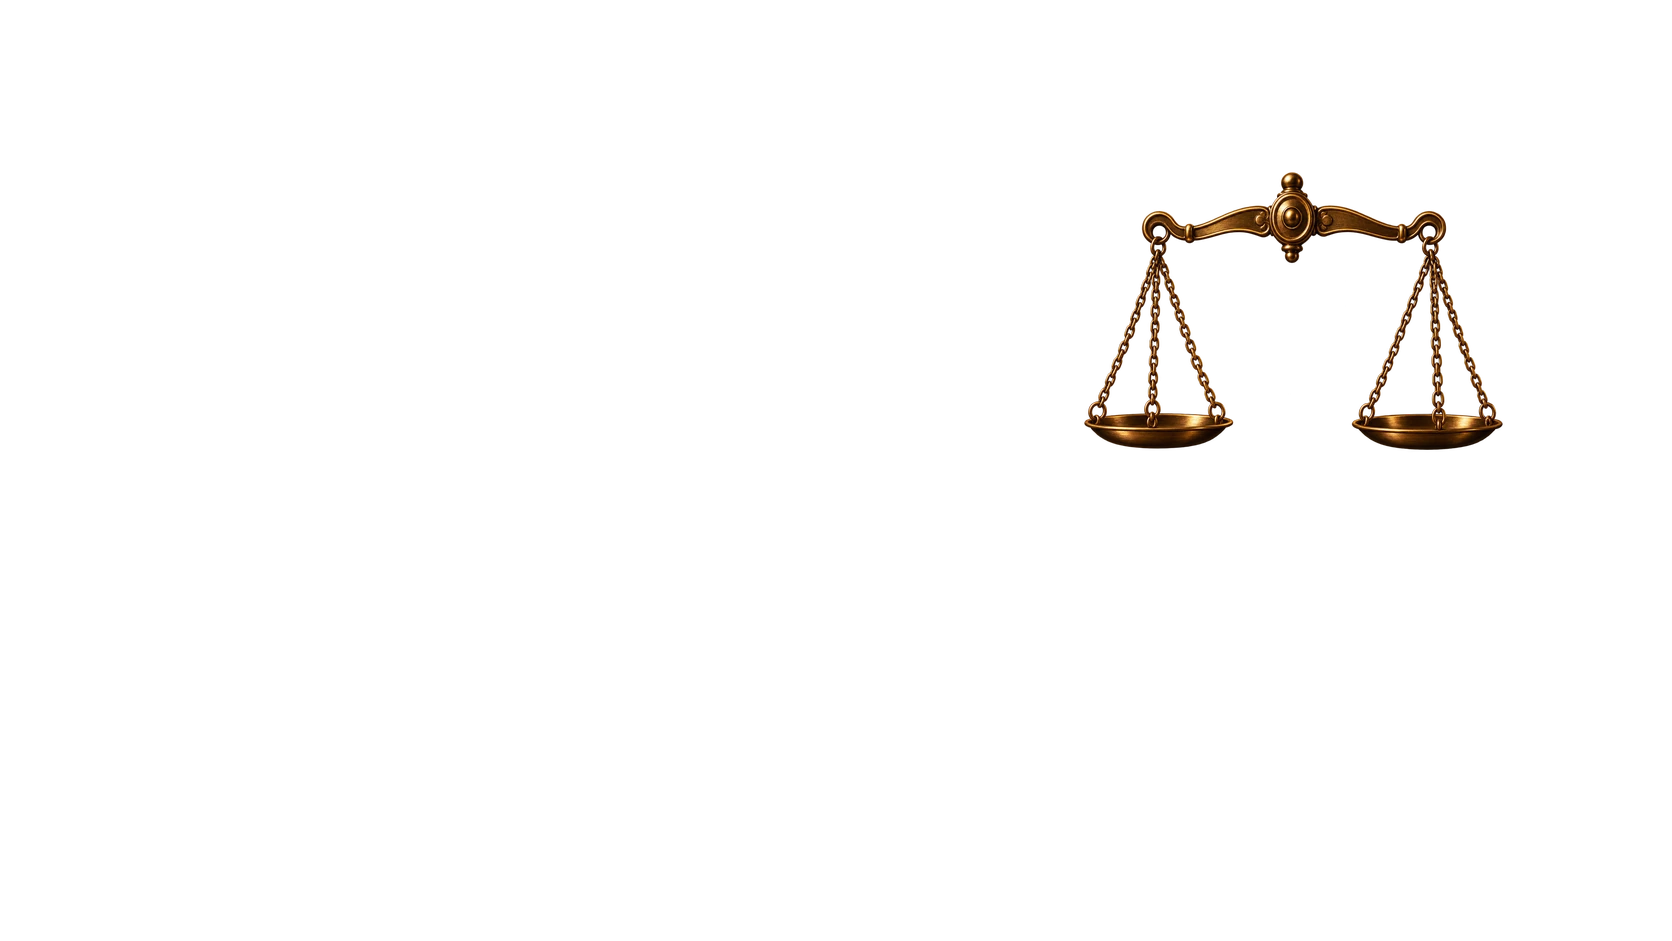
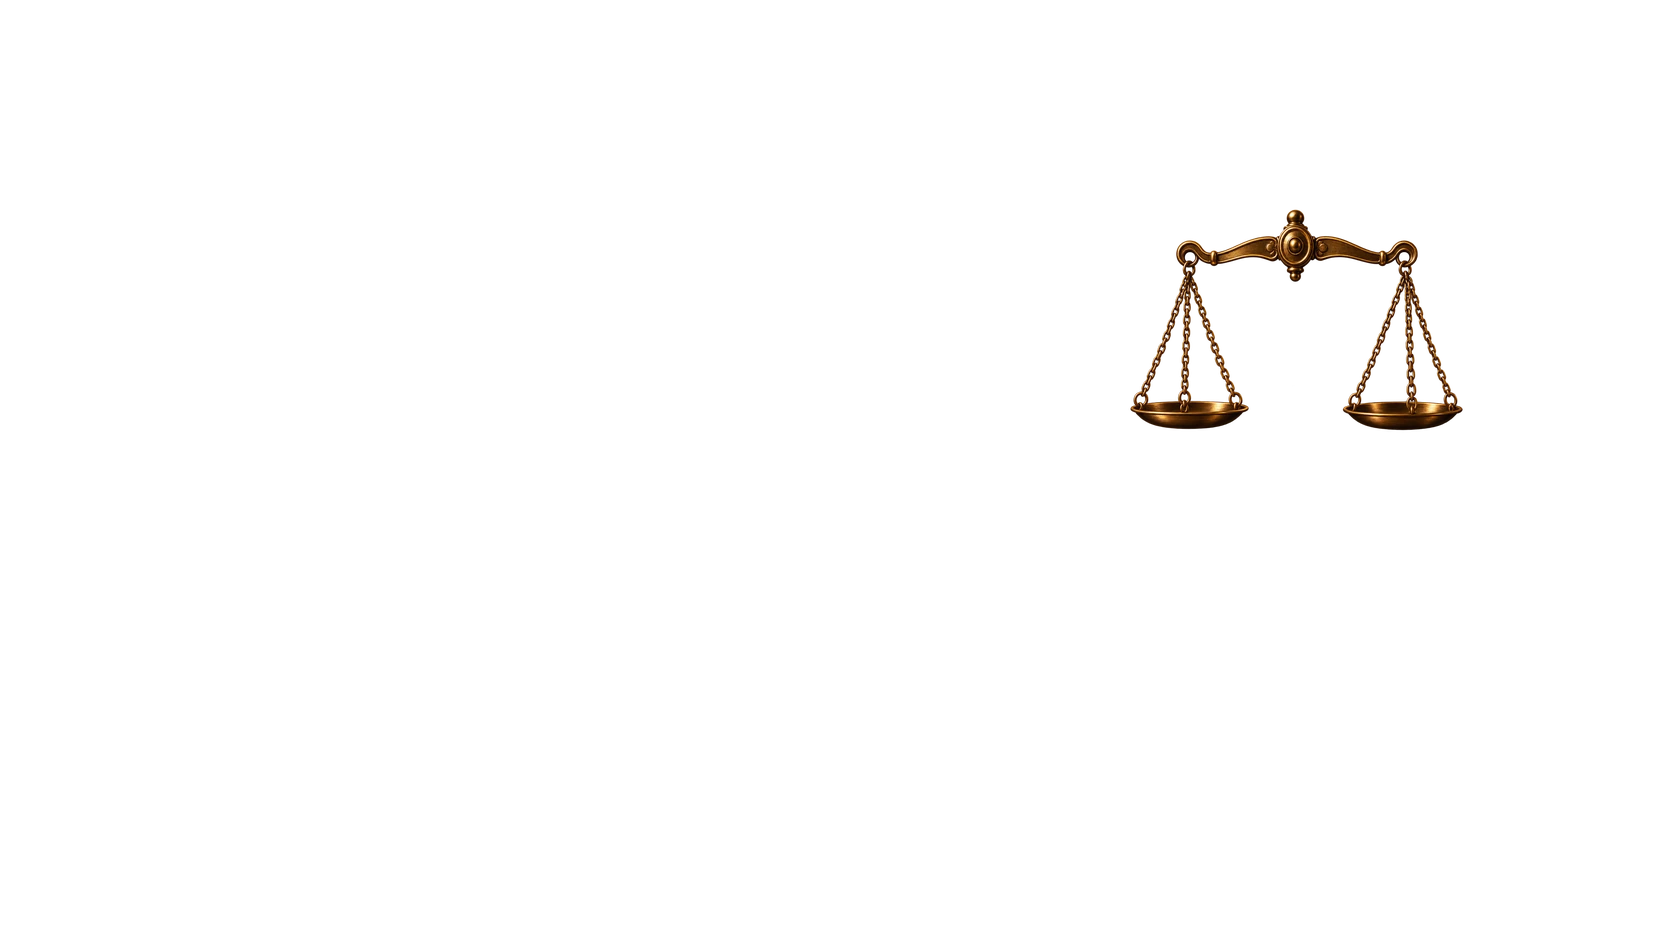
fix: smaller scales, hung lower, swinging over twenty seconds
The balance read too large against the figure. Scale drops from 0.34 to
0.27 and the boss moves from y=172 down to y=210, which also shifts it
2px right — the staff leans about 4.4 degrees, so sliding down it means
sliding out. Pans now sit at her waist rather than crowding her chest.
Pivot follows to 77.45% 23.72%; checked at both extremes that the boss
still holds the staff.

The swing runs 20s instead of 10. Rather than playing the old curve at
half speed, which would have read as sluggish, the keyframes are
regenerated as a real damped oscillation: 2.8s period held constant,
amplitude decaying from 2.6 degrees on a 6.5s time constant. That keeps
visible motion past the ten second mark and still settles by twenty.
Easing is ease-in-out between extremes, which is close enough to
sinusoidal to read as a pendulum.

Changed region(s): [[0.6531, 0.1849, 0.9019, 0.4931]]

diff --git a/redesign-home-polish.css b/redesign-home-polish.css
@@ -321,18 +321,18 @@ body{
    noktalarında hizalama kendiliğinden tutar. Mesnet, kolun orta göbeği.
    ------------------------------------------------------------------------ */
 .hero__scales{display:none}
-.hero__scales img{width:100%;height:100%;display:block;transform-origin:77.27% 20.05%}
+.hero__scales img{width:100%;height:100%;display:block;transform-origin:77.45% 23.72%}
 
 @keyframes terazi-salinim{
-  0%{transform:rotate(0)}
-  8%{transform:rotate(2.4deg)}
-  22%{transform:rotate(-2deg)}
-  38%{transform:rotate(1.45deg)}
-  54%{transform:rotate(-1deg)}
-  70%{transform:rotate(.6deg)}
-  84%{transform:rotate(-.32deg)}
-  93%{transform:rotate(.14deg)}
-  100%{transform:rotate(0)}
+  0%{transform:rotate(0deg)}
+  3.5%{transform:rotate(2.33deg)}    10.5%{transform:rotate(-1.88deg)}
+  17.5%{transform:rotate(1.52deg)}   24.5%{transform:rotate(-1.22deg)}
+  31.5%{transform:rotate(.986deg)}   38.5%{transform:rotate(-.795deg)}
+  45.5%{transform:rotate(.641deg)}   52.5%{transform:rotate(-.517deg)}
+  59.5%{transform:rotate(.417deg)}   66.5%{transform:rotate(-.336deg)}
+  73.5%{transform:rotate(.271deg)}   80.5%{transform:rotate(-.218deg)}
+  87.5%{transform:rotate(.176deg)}   94.5%{transform:rotate(-.142deg)}
+  100%{transform:rotate(0deg)}
 }
 
 @media(min-width:1181px){
@@ -350,5 +350,6 @@ body{
   }
 }
 @media(min-width:921px) and (prefers-reduced-motion:no-preference){
-  .hero__scales img{animation:terazi-salinim 10s cubic-bezier(.36,.07,.19,.97) .6s both}
+  /* Uçlar arasında sinüse yakın bir geçiş; sarkaç böyle hareket eder. */
+  .hero__scales img{animation:terazi-salinim 20s ease-in-out .6s both}
 }

diff --git a/assets/_source/README.md b/assets/_source/README.md
@@ -12,6 +12,6 @@ içindeki webp'lerin kaynağıdır; kırpma veya boyut değişirse yeniden
 | `pinar-karakas-seffaf-yuksek-kalite.png` | `pinar-karakas-portre.webp` |
 | `KARAKAS_HUKUK_LOGO_SEFFAF_4K.png` | logo lockup türevleri |
 | `hero-katman-a-terazisiz.png` | `hero-adalet-base.webp` (masaüstü, terazi ayrı katman) |
-| `hero-katman-b-terazi.png` | `hero-terazi.webp` (0.34 ölçek, göbek tepesi 1292,172'ye) |
+| `hero-katman-b-terazi.png` | `hero-terazi.webp` (0.27 ölçek, göbek tepesi 1295,210'a) |
 | A + B birleşik | `hero-adalet-premium.webp` (mobil ve yedek) |
 | `hero-adalet-premium-eski.webp` | terazi sarkacından önceki hero |
